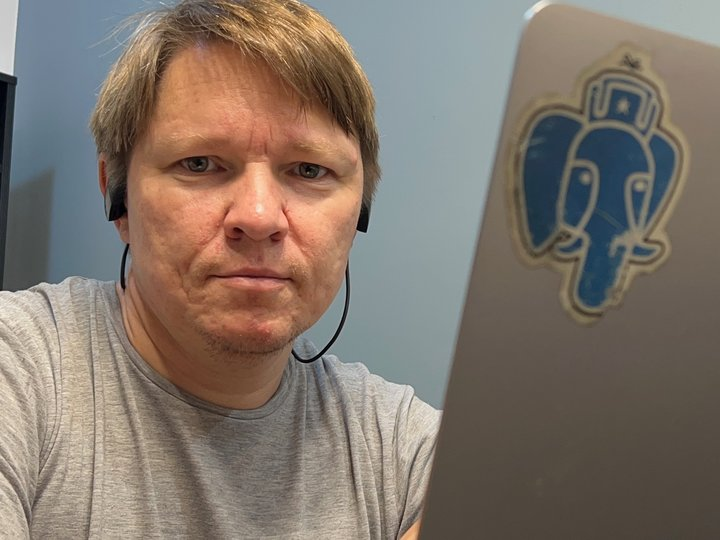
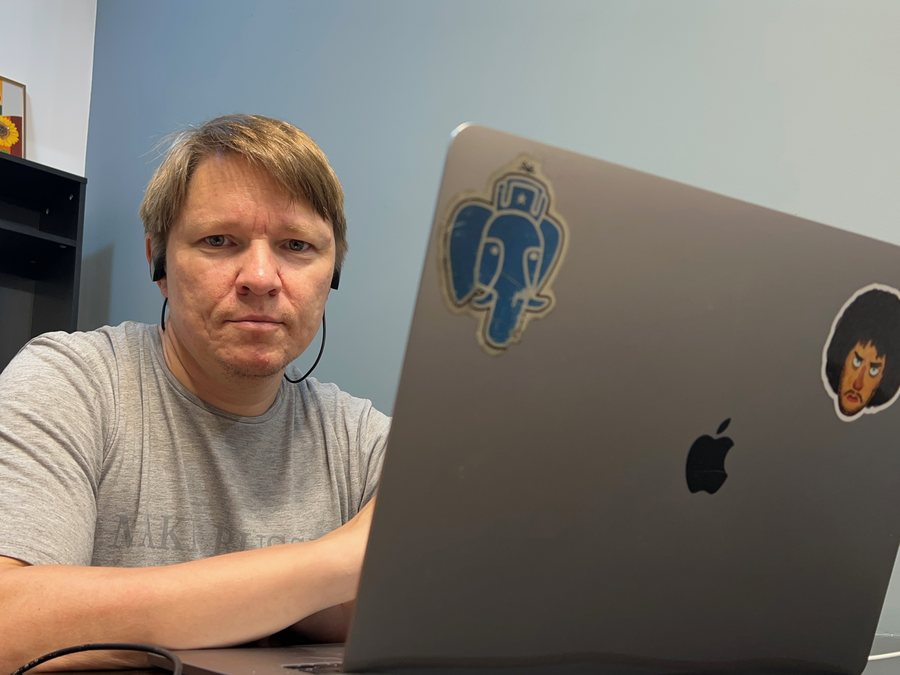
Widen the portrait crop to the whole desk scene
Previously cropped to face plus the elephant sticker; now the frame runs
900..3900 x 350..2600 of the original, which is as much as there is: the
only thing deliberately left out is another person's arm across the bottom
left. Gains air above the head, the full laptop lid with both stickers, and
the table edge. Displayed at 14rem rather than 11rem, otherwise the face
and the stickers both lose definition. Metadata stripped as before.

diff --git a/assets/css/style.css b/assets/css/style.css
@@ -98,11 +98,12 @@ code {
 .intro { display: flex; flex-wrap: wrap; gap: 1.5rem; align-items: flex-start; }
 .intro-text { flex: 1 1 20rem; }
 .intro-text .lede { font-size: 1.1rem; margin-bottom: 0.75rem; }
-/* Wider than a head-and-shoulders shot would need: the frame carries the
-   laptop and its Postgres sticker as well as the face. */
+/* The frame is the full desk scene, not a head-and-shoulders shot, so it needs
+   more width than a portrait would: at anything narrower the face and the
+   stickers both turn to mush. */
 .intro .portrait {
   flex: 0 0 auto;
-  width: 11rem;
+  width: 14rem;
   height: auto;
   border-radius: 4px;
 }
